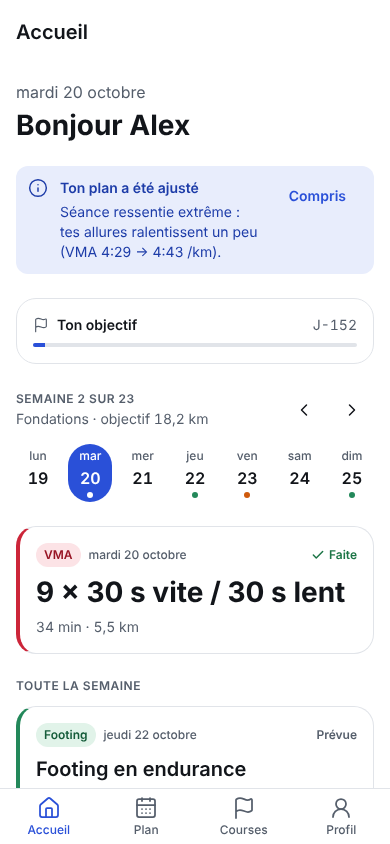
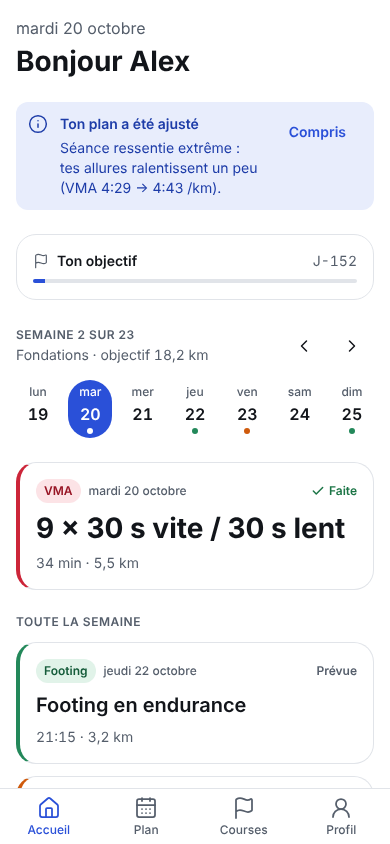
build: all states on built screens, keyboard access, plan regeneration fix
- every built screen: empty, loading (skeletons, no flicker on refetch),
  error with retry, long content, 390px and 1440px
- keyboard: radios, segmented options, effort scale and day tabs work with
  Enter/Space on web; ARIA state via aria-* props (accessibilityState was not
  reaching the DOM)
- switching sessions/week regenerates future sessions with revision-scoped
  ids (they collided with past ones)
- typographic apostrophes in all copy
- e2e/states.mjs covers empty, error, long content, move, manual activity,
  connections, settings, desktop width and keyboard-only

Claude-Session: https://claude.ai/code/session_01Q18wVfXWjVUNv9wxEHhcun

diff --git a/apps/mobile/src/ui/training.tsx b/apps/mobile/src/ui/training.tsx
@@ -2,7 +2,7 @@ import { Pressable, View, type PressableStateCallbackType } from 'react-native';
 import type { ReactNode } from 'react';
 import { Check, Lock } from 'lucide-react-native';
 import type { Session, SessionType, Step, PaceZones } from '@stride/engine';
-import { effortOf, effortOfZone, useTheme, type Effort } from '../theme';
+import { effortOf, effortOfZone, keyActivate, useTheme, type Effort } from '../theme';
 import { dayLong, dayNum, dayShort, duration, km, pace, paceSpoken, RPE_LABEL, SESSION_LABEL, STEP_LABEL, ZONE_LABEL } from '../copy';
 import { T } from './core';
 
@@ -70,9 +70,10 @@ export function WeekStrip({
           <Pressable
             key={d}
             onPress={() => onSelect(d)}
+            {...keyActivate(() => onSelect(d))}
             accessibilityRole="tab"
-            accessibilityState={{ selected: on }}
-            accessibilityLabel={`${dayLong(d)}${d === today ? ", aujourd'hui" : ''}, ${s ? `${SESSION_LABEL[s.type]}, ${status}` : 'repos'}`}
+            aria-selected={on}
+            accessibilityLabel={`${dayLong(d)}${d === today ? ", aujourd’hui" : ''}, ${s ? `${SESSION_LABEL[s.type]}, ${status}` : 'repos'}`}
             style={(st: PState) => [
               {
                 width: t.layout.touch_min,
@@ -131,7 +132,7 @@ export function SessionCard({
 }) {
   const t = useTheme();
   const e = t.effort(effortOf(session.type));
-  const statusText = today && session.status === 'planned' ? "Aujourd'hui" : STATUS_TEXT[session.status];
+  const statusText = today && session.status === 'planned' ? "Aujourd’hui" : STATUS_TEXT[session.status];
   const muted = session.status === 'missed' || session.status === 'skipped';
   return (
     <Pressable
@@ -275,7 +276,7 @@ export function RPEScale({ value, onChange, error }: { value: number | null; onC
   const t = useTheme();
   return (
     <View style={{ gap: t.sp(2) }}>
-      <View accessibilityRole="radiogroup" accessibilityLabel="Comment t'es-tu senti ?" style={{ flexDirection: 'row', justifyContent: 'space-between' }}>
+      <View accessibilityRole="radiogroup" accessibilityLabel="Comment t’es-tu senti ?" style={{ flexDirection: 'row', justifyContent: 'space-between' }}>
         {([1, 2, 3, 4, 5] as const).map((n) => {
           const e = t.effort(n);
           const on = value === n;
@@ -283,8 +284,9 @@ export function RPEScale({ value, onChange, error }: { value: number | null; onC
             <Pressable
               key={n}
               onPress={() => onChange(n)}
+              {...keyActivate(() => onChange(n))}
               accessibilityRole="radio"
-              accessibilityState={{ checked: on }}
+              aria-checked={on}
               accessibilityLabel={`${n}, ${RPE_LABEL[n]}`}
               style={(s: PState) => [{ alignItems: 'center', gap: t.sp(1), width: 64, borderRadius: t.r.md }, t.focusRing(!!s.focused)]}
             >

diff --git a/apps/mobile/src/ui/forms.tsx b/apps/mobile/src/ui/forms.tsx
@@ -1,7 +1,7 @@
 import { useState, type ReactNode } from 'react';
 import { Pressable, TextInput, View, type KeyboardTypeOptions, type PressableStateCallbackType } from 'react-native';
 import { Check, Minus, Plus, type LucideIcon } from 'lucide-react-native';
-import { useTheme } from '../theme';
+import { keyActivate, useTheme } from '../theme';
 import { T } from './core';
 
 type PState = PressableStateCallbackType & { focused?: boolean };
@@ -65,8 +65,10 @@ export function ChoiceCard<V extends string>({
   return (
     <Pressable
       onPress={choice.disabled ? undefined : onPress}
+      {...keyActivate(choice.disabled ? undefined : onPress)}
       accessibilityRole={multi ? 'checkbox' : 'radio'}
-      accessibilityState={{ checked: selected, disabled: !!choice.disabled }}
+      aria-checked={selected}
+      aria-disabled={!!choice.disabled}
       accessibilityLabel={[choice.title, choice.description, choice.badge].filter(Boolean).join(', ')}
       style={(s: PState) => [
         {
@@ -132,8 +134,9 @@ export function Segmented<V extends string | number>({
           <Pressable
             key={String(o.value)}
             onPress={() => onChange(o.value)}
+            {...keyActivate(() => onChange(o.value))}
             accessibilityRole="radio"
-            accessibilityState={{ checked: on }}
+            aria-checked={on}
             accessibilityLabel={[o.label, o.caption].filter(Boolean).join(', ')}
             style={(s: PState) => [
               {
@@ -267,7 +270,7 @@ export function NumberStepper({
         onPress={() => !disabled && onChange(Math.min(max, Math.max(min, value + delta)))}
         accessibilityRole="button"
         accessibilityLabel={a11y}
-        accessibilityState={{ disabled }}
+        aria-disabled={disabled}
         style={(s: PState) => [
           {
             width: t.layout.touch_min,

diff --git a/packages/engine/src/plan.ts b/packages/engine/src/plan.ts
@@ -169,16 +169,16 @@ interface Built {
 
 const PURPOSE: Record<SessionType, string> = {
   easy: "Courir lentement construit ton moteur aérobie sans fatigue. Tu dois pouvoir parler en phrases complètes.",
-  long: "La sortie longue habitue ton corps à durer : tendons, réserves d'énergie, mental. Reste en aisance du début à la fin.",
+  long: "La sortie longue habitue ton corps à durer : tendons, réserves d’énergie, mental. Reste en aisance du début à la fin.",
   vma: "Des efforts courts près de ta vitesse maximale pour élever ton plafond. Les récupérations comptent autant que les efforts.",
-  threshold: "Le seuil, c'est l'allure « confortablement difficile ». Le travailler repousse le moment où tu t'essouffles.",
-  race_pace: "Répéter l'allure de ta course pour qu'elle devienne familière le jour J.",
-  hills: "Les côtes renforcent les jambes et la foulée, avec moins de chocs qu'à plat.",
+  threshold: "Le seuil, c’est l’allure « confortablement difficile ». Le travailler repousse le moment où tu t’essouffles.",
+  race_pace: "Répéter l’allure de ta course pour qu’elle devienne familière le jour J.",
+  hills: "Les côtes renforcent les jambes et la foulée, avec moins de chocs qu’à plat.",
   trail: "Varier les terrains et le dénivelé pour préparer ton corps aux sentiers.",
   strength: "Renforcement général : gainage, mollets, fessiers. Moins de blessures, meilleure foulée.",
   test: "Un effort maximal pour mettre à jour tes allures. Échauffe-toi bien et donne tout.",
   race: "Jour de course. Pars prudemment, garde ton allure, finis fort.",
-  rest: "Repos. C'est pendant la récupération que tu progresses.",
+  rest: "Repos. C’est pendant la récupération que tu progresses.",
 };
 
 function durationOf(steps: Step[]): number {

diff --git a/apps/mobile/src/ui/core.tsx b/apps/mobile/src/ui/core.tsx
@@ -71,6 +71,7 @@ export function Button({
   disabled,
   loading,
   block,
+  center,
   icon: Icon,
   accessibilityLabel,
   testID,
@@ -82,6 +83,8 @@ export function Button({
   disabled?: boolean;
   loading?: boolean;
   block?: boolean;
+  /** centre in a column (empty states) instead of hugging the start edge */
+  center?: boolean;
   icon?: LucideIcon;
   accessibilityLabel?: string;
   testID?: string;
@@ -102,7 +105,8 @@ export function Button({
       onPress={inactive ? undefined : onPress}
       accessibilityRole="button"
       accessibilityLabel={accessibilityLabel ?? label}
-      accessibilityState={{ disabled: !!disabled, busy: !!loading }}
+      aria-disabled={!!disabled}
+      aria-busy={!!loading}
       disabled={inactive}
       hitSlop={size === 'sm' ? 4 : 0}
       style={(s: PState) => [
@@ -118,7 +122,7 @@ export function Button({
           justifyContent: 'center',
           gap: t.sp(2),
           opacity: disabled ? 0.4 : 1,
-          alignSelf: block ? 'stretch' : 'flex-start',
+          alignSelf: block ? 'stretch' : center ? 'center' : 'flex-start',
           transform: [{ scale: s.pressed ? 0.97 : 1 }],
         },
         t.focusRing(!!s.focused),
@@ -328,7 +332,7 @@ export function EmptyState({
           {body}
         </T>
       ) : null}
-      {cta ? <Button label={cta.label} onPress={cta.onPress} /> : null}
+      {cta ? <Button label={cta.label} onPress={cta.onPress} center /> : null}
     </View>
   );
 }
@@ -337,7 +341,7 @@ export function ErrorState({ message, onRetry }: { message: string; onRetry?: ()
   return (
     <EmptyState
       icon={AlertCircle}
-      title="Ça n'a pas marché"
+      title="Ça n’a pas marché"
       body={message}
       cta={onRetry ? { label: 'Réessayer', onPress: onRetry } : undefined}
     />

diff --git a/apps/mobile/src/data/fake.ts b/apps/mobile/src/data/fake.ts
@@ -104,7 +104,7 @@ export function createFakeApi(opts: FakeOptions = {}): Api & { reset(): Promise<
     return s.user;
   }
   function requirePlan(s: State): Plan {
-    if (!s.plan) throw new ApiError('not_found', "Tu n'as pas encore de plan.");
+    if (!s.plan) throw new ApiError('not_found', "Tu n’as pas encore de plan.");
     return s.plan;
   }
   function record(s: State, a: Adjustment | null, reason?: AdjustmentRow['reason']): AdjustmentRow | null {
@@ -173,7 +173,7 @@ export function createFakeApi(opts: FakeOptions = {}): Api & { reset(): Promise<
         'onboarding',
         (s) => {
           const u = requireUser(s);
-          if (input.age < 14 || input.age > 99) throw new ApiError('invalid', "L'âge doit être compris entre 14 et 99 ans.");
+          if (input.age < 14 || input.age > 99) throw new ApiError('invalid', "L’âge doit être compris entre 14 et 99 ans.");
           const lvl = estimateLevel({ ...input, sex: input.sex });
           s.profile = input;
           s.level = { vmaKmh: lvl.vmaKmh, zones: lvl.zones, source: lvl.source, measuredOn: today() };
@@ -376,7 +376,8 @@ export function createFakeApi(opts: FakeOptions = {}): Api & { reset(): Promise<
             const p = s.plan;
             const t = today();
             const regenerated = generatePlan({
-              id: p.id,
+              // revision-scoped ids: past sessions keep theirs, new ones never collide
+              id: `${p.id}.r${p.revision + 1}`,
               goal: p.goal,
               startDate: addDays(t, 1),
               sessionsPerWeek: patch.sessionsPerWeek,

diff --git a/apps/mobile/src/theme/index.tsx b/apps/mobile/src/theme/index.tsx
@@ -72,3 +72,17 @@ export function effortOfZone(zone: string): Effort {
 
 /** Tabular figures for anything that updates or lines up. */
 export const tabular: TextStyle = { fontVariant: ['tabular-nums'] };
+
+/** react-native-web only activates role="button" with the keyboard. Radios,
+ *  tabs and other pressables get Enter/Space here (web only; no-op on native). */
+export function keyActivate(onPress?: () => void): object {
+  if (Platform.OS !== 'web' || !onPress) return {};
+  return {
+    onKeyDown: (e: { key: string; preventDefault: () => void }) => {
+      if (e.key === 'Enter' || e.key === ' ') {
+        e.preventDefault();
+        onPress();
+      }
+    },
+  };
+}

diff --git a/apps/mobile/src/app/session/[id]/export.tsx b/apps/mobile/src/app/session/[id]/export.tsx
@@ -2,5 +2,5 @@ import { StubScreen } from '../../../ui';
 
 // S11: route in place, build scheduled for milestone 3 (replica/architecture.md).
 export default function SessionIdExport() {
-  return <StubScreen id="S11" title="Envoyer la séance sur ta montre" milestone={3} body="Choisis ta marge d'allure et le jour, puis envoie la séance structurée sur ta montre Garmin, Coros, Suunto ou Apple." />;
+  return <StubScreen id="S11" title="Envoyer la séance sur ta montre" milestone={3} body="Choisis ta marge d’allure et le jour, puis envoie la séance structurée sur ta montre Garmin, Coros, Suunto ou Apple." />;
 }

diff --git a/apps/mobile/src/app/onboarding/strava.tsx b/apps/mobile/src/app/onboarding/strava.tsx
@@ -2,5 +2,5 @@ import { StubScreen } from '../../ui';
 
 // S03: route in place, build scheduled for milestone 3 (replica/architecture.md).
 export default function OnboardingStrava() {
-  return <StubScreen id="S03" title="Importer ton historique Strava" milestone={3} body="Connecter Strava pour affiner l'estimation de ton niveau à partir de tes dernières sorties." />;
+  return <StubScreen id="S03" title="Importer ton historique Strava" milestone={3} body="Connecter Strava pour affiner l’estimation de ton niveau à partir de tes dernières sorties." />;
 }

diff --git a/apps/mobile/src/app/(tabs)/plan.tsx b/apps/mobile/src/app/(tabs)/plan.tsx
@@ -96,7 +96,7 @@ function WeekRow({
       <Pressable
         onPress={onToggle}
         accessibilityRole="button"
-        accessibilityState={{ expanded: open }}
+        aria-expanded={open}
         accessibilityLabel={`Semaine ${week.index + 1}, ${PHASE_LABEL[week.phase]}, ${week.targetVolumeKm} kilomètres${current ? ', semaine en cours' : ''}`}
         style={(s: PressableStateCallbackType & { focused?: boolean }) => [
           {
